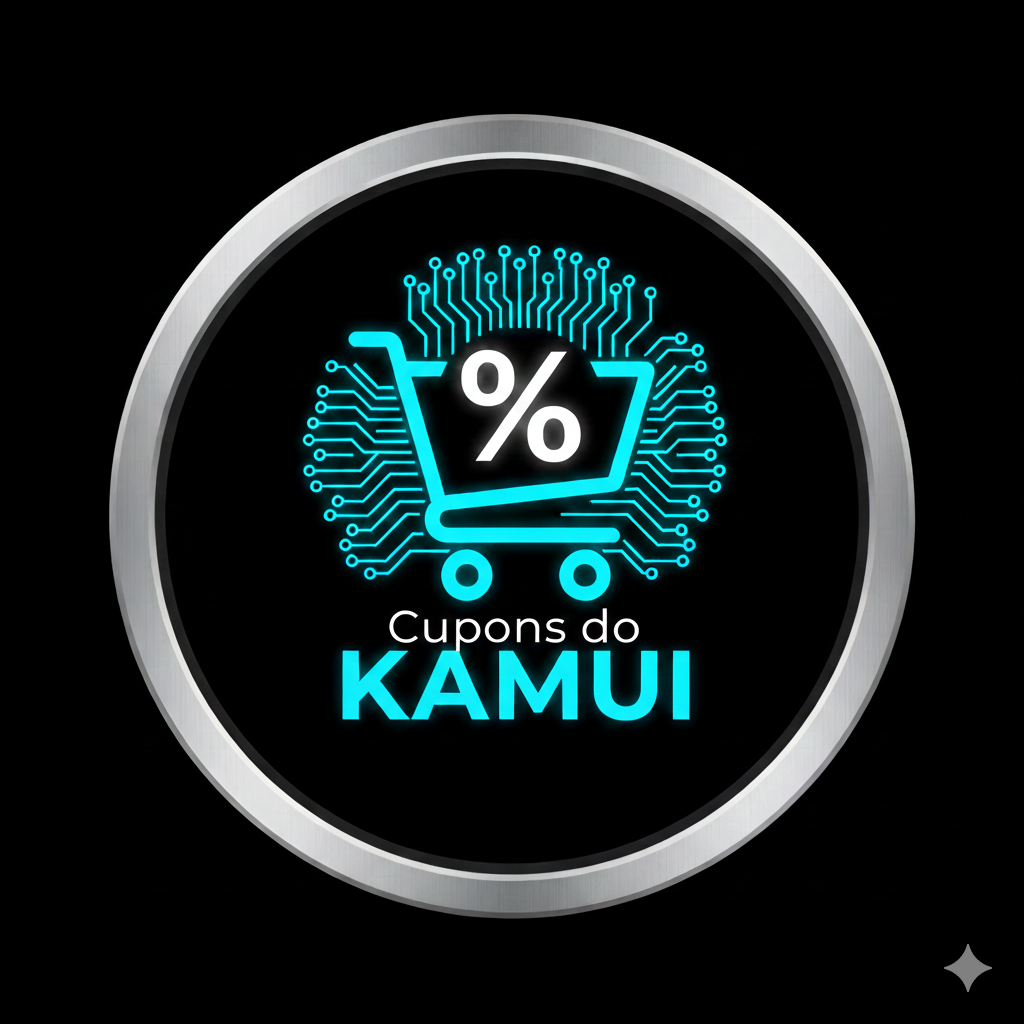
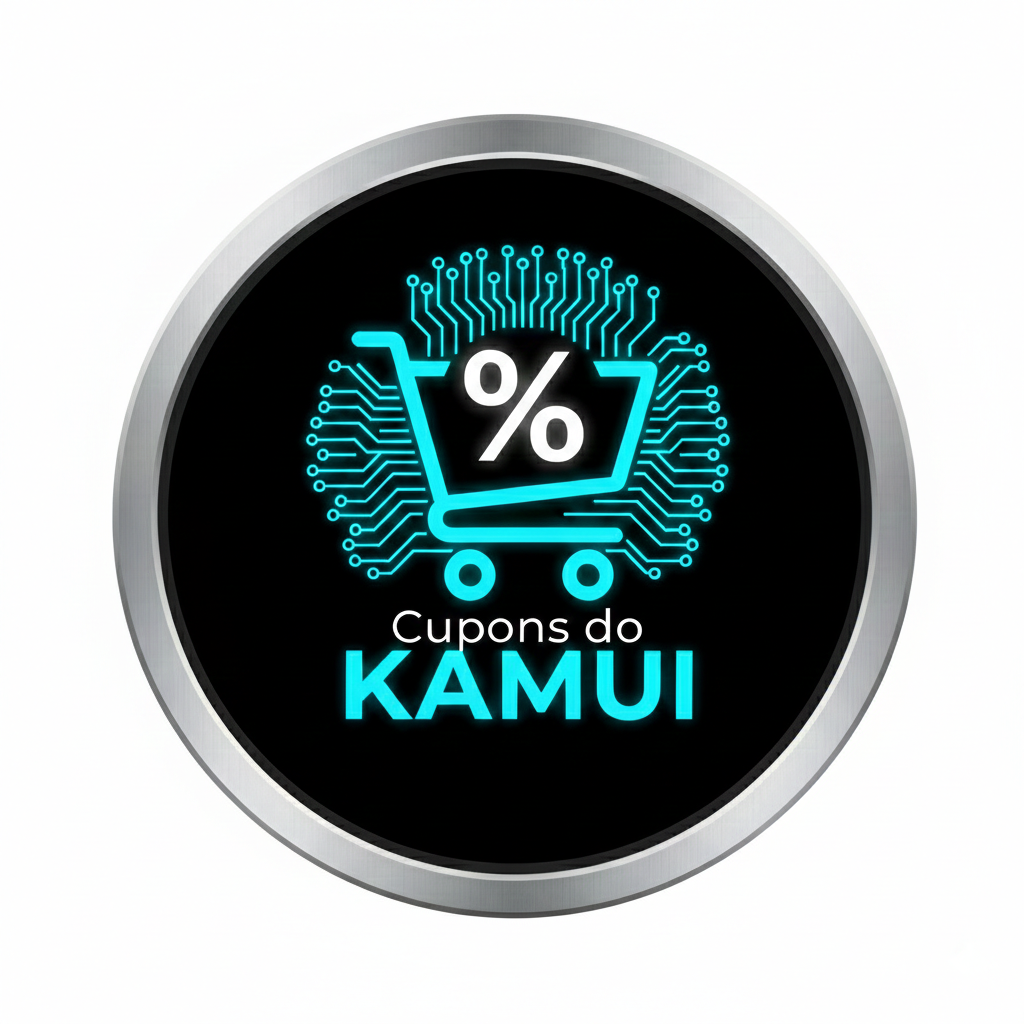
correcao do light mode

diff --git a/script.js b/script.js
@@ -8,10 +8,10 @@ function toggleMode() {
   //substituir a imagem
   if (html.classList.contains("light")) {
     //se tiver light mode, adicionar a imagem light
-    img.setAttribute("src", "./assets/avatar.jpg")
+    img.setAttribute("src", "./assets/avatar-light.jpg")
   } else {
     //se tiver sem light mod, manter a imagem normal
-    img.setAttribute("src", "./assets/avatar-light.jpg")
+    img.setAttribute("src", "./assets/avatar.jpg")
   }
 
   //se tiver sem light mod, manter a imagem normal

diff --git a/style.css b/style.css
@@ -46,6 +46,10 @@ body * {
 
 #profile img {
   width: 112px;
+  width: 112px;
+  height: 112px; /* 1. Adicione a altura igual à largura */
+  border-radius: 50%; /* 2. Adicione isso para arredondar */
+  object-fit: cover; /* 3. Adicione isso para não distorcer o logo */
 }
 
 #profile p {
